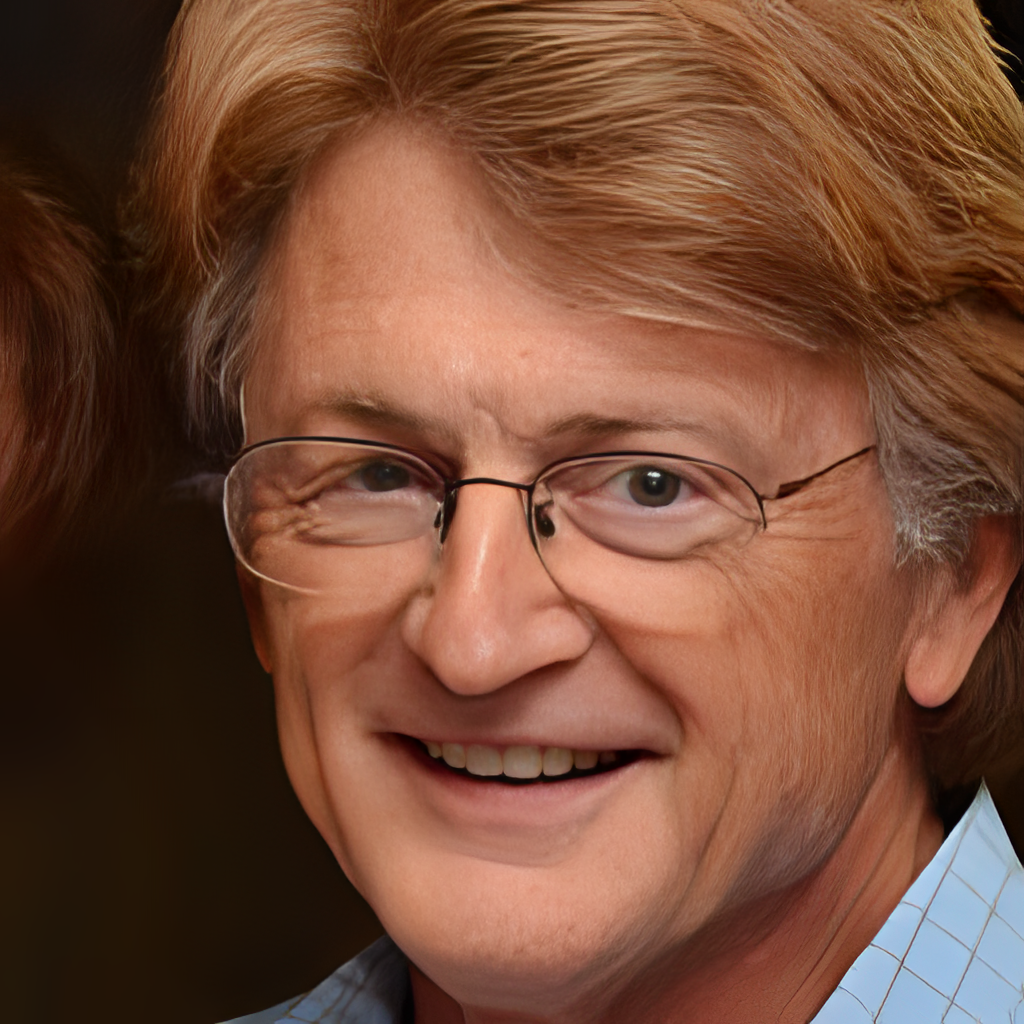
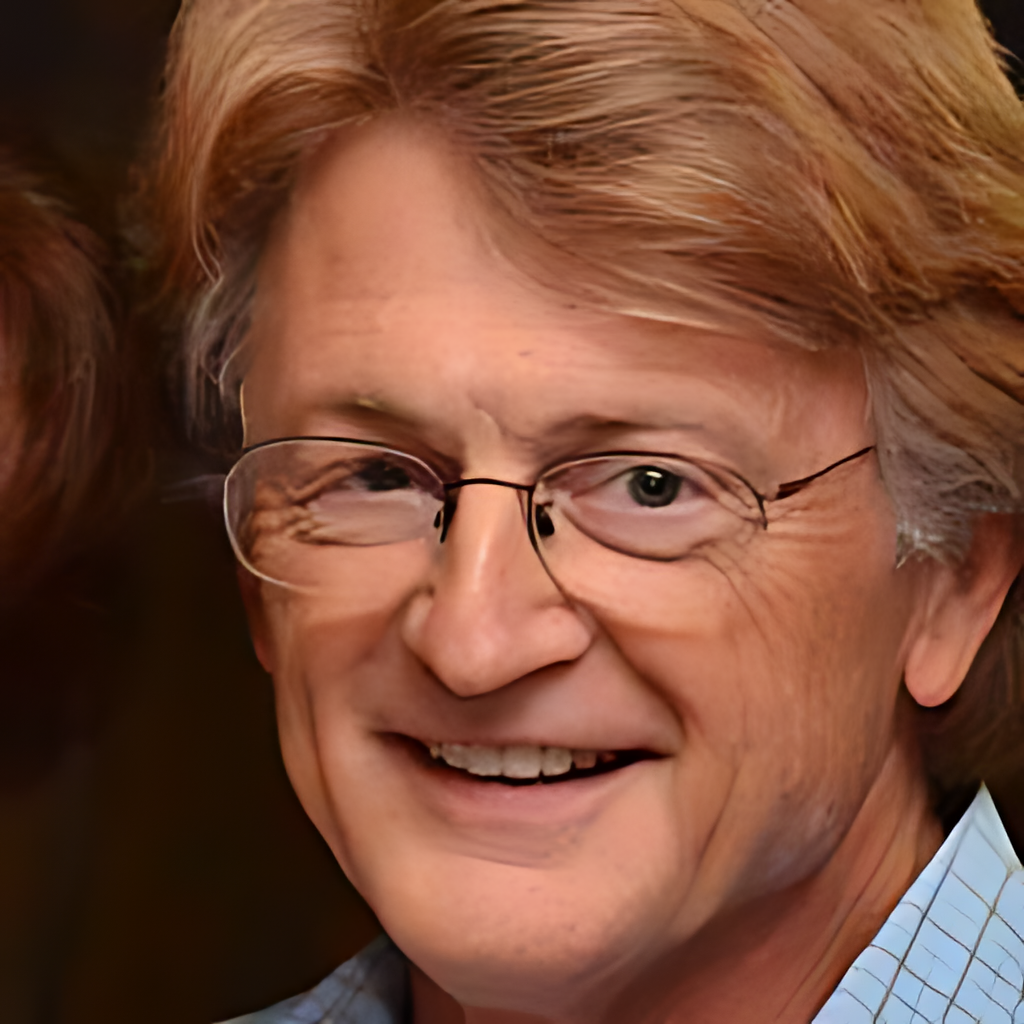
Add alpha channel support

diff --git a/RealESRGAN/model.py b/RealESRGAN/model.py
@@ -88,35 +88,78 @@ class RealESRGAN:
         self.model.eval()
         self.model.to(self.device)
         
-    def predict(self, lr_image, batch_size=4, patches_size=192,
-                padding=24, pad_size=15):
-        torch.autocast(device_type=self.device.type)
-        scale = self.scale
-        device = self.device
-        lr_image = np.array(lr_image)
-        lr_image = pad_reflect(lr_image, pad_size)
-
+    def _upscale_ai(self, image_np, batch_size, patches_size, padding, pad_size):
+        """
+        Upscales a 3-channel image using the AI model.
+        Assumes image_np is a numpy array with shape (H, W, 3).
+        """
+        # Apply reflection padding
+        image_np = pad_reflect(image_np, pad_size)
         patches, p_shape = split_image_into_overlapping_patches(
-            lr_image, patch_size=patches_size, padding_size=padding
+            image_np, patch_size=patches_size, padding_size=padding
         )
-        img = torch.FloatTensor(patches/255).permute((0,3,1,2)).to(device).detach()
+        img = torch.FloatTensor(patches / 255).permute((0, 3, 1, 2)).to(self.device).detach()
 
+        # Process the patches in batches through the model
         with torch.no_grad():
             res = self.model(img[0:batch_size])
             for i in range(batch_size, img.shape[0], batch_size):
                 res = torch.cat((res, self.model(img[i:i+batch_size])), 0)
 
-        sr_image = res.permute((0,2,3,1)).cpu().clamp_(0, 1)
+        # Reassemble the patches into a full image
+        sr_image = res.permute((0, 2, 3, 1)).cpu().clamp_(0, 1)
         np_sr_image = sr_image.numpy()
-
-        padded_size_scaled = tuple(np.multiply(p_shape[0:2], scale)) + (3,)
-        scaled_image_shape = tuple(np.multiply(lr_image.shape[0:2], scale)) + (3,)
+        padded_size_scaled = tuple(np.multiply(p_shape[0:2], self.scale)) + (3,)
+        scaled_image_shape = tuple(np.multiply(image_np.shape[0:2], self.scale)) + (3,)
         np_sr_image = stich_together(
-            np_sr_image, padded_image_shape=padded_size_scaled, 
-            target_shape=scaled_image_shape, padding_size=padding * scale
+            np_sr_image,
+            padded_image_shape=padded_size_scaled,
+            target_shape=scaled_image_shape,
+            padding_size=padding * self.scale
         )
-        sr_img = (np_sr_image*255).astype(np.uint8)
-        sr_img = unpad_image(sr_img, pad_size*scale)
-        sr_img = Image.fromarray(sr_img)
+        final_img = (np_sr_image * 255).astype(np.uint8)
+        final_img = unpad_image(final_img, pad_size * self.scale)
+        return final_img
 
-        return sr_img
+    def predict(self, lr_image, batch_size=4, patches_size=192,
+                padding=24, pad_size=15, alpha_scale="Esrgan"):
+        """
+        Upscales an image. If an alpha channel is present, the RGB is processed through the AI upscaler,
+        and the alpha channel is either upscaled via bicubic interpolation or passed through the same
+        AI pipeline (if alpha_scale is 'Esrgan'). The upscaled alpha is then recombined.
+        """
+        torch.autocast(device_type=self.device.type)
+        scale = self.scale
+        lr_image_np = np.array(lr_image)
+
+        # Check if there is an alpha channel and split it out
+        if lr_image_np.ndim == 3 and lr_image_np.shape[2] == 4:
+            has_alpha = True
+            alpha_channel = lr_image_np[..., 3]
+            lr_rgb = lr_image_np[..., :3]
+        else:
+            has_alpha = False
+            lr_rgb = lr_image_np
+
+        # Upscale the RGB image using the helper function
+        sr_rgb = self._upscale_ai(lr_rgb, batch_size, patches_size, padding, pad_size)
+        sr_rgb_img = Image.fromarray(sr_rgb)
+
+        if has_alpha:
+            if alpha_scale == "Bicubic":
+                # Upscale alpha using bicubic interpolation
+                alpha_img = Image.fromarray(alpha_channel).convert("L")
+                new_size = (lr_rgb.shape[1] * scale, lr_rgb.shape[0] * scale)
+                alpha_upscaled = alpha_img.resize(new_size, resample=Image.BICUBIC)
+            elif alpha_scale == "Esrgan":
+                # Replicate the single-channel alpha to three channels and upscale via the AI pipeline
+                alpha_3ch = np.repeat(alpha_channel[..., np.newaxis], 3, axis=2)
+                sr_alpha = self._upscale_ai(alpha_3ch, batch_size, patches_size, padding, pad_size)
+                # Convert the upscaled alpha back to a single-channel grayscale image
+                alpha_upscaled = Image.fromarray(sr_alpha).convert("L")
+            else:
+                raise ValueError("alpha_scale must be either 'Bicubic' or 'Esrgan'")
+            # Combine the upscaled alpha with the upscaled RGB image
+            sr_rgb_img.putalpha(alpha_upscaled)
+
+        return sr_rgb_img

diff --git a/main.py b/main.py
@@ -9,15 +9,15 @@ output_dir = "results"
 
 def main() -> int:
     device = torch.device('cuda' if torch.cuda.is_available() else 'cpu')
-    model = RealESRGAN(device, 'RealESRGAN_x4')
+    model = RealESRGAN(device, 'realesr-general-x4v3')
     model.load_weights(download=True)
     
-    #image = Image.open(f"inputs/lr_image.png").convert('RGB')
+    #image = Image.open(f"inputs/lr_image.png")
     #sr_image = model.predict(image)
     #sr_image.save(f'results/sr_image.png')
 
     for filename in os.listdir(input_dir):
-        image = Image.open(os.path.join(input_dir, filename)).convert('RGB')
+        image = Image.open(os.path.join(input_dir, filename))
         sr_image = model.predict(image)
         sr_image.save(os.path.join(output_dir, filename))
 

diff --git a/README.md b/README.md
@@ -31,15 +31,15 @@ from RealESRGAN import RealESRGAN
 
 device = torch.device('cuda' if torch.cuda.is_available() else 'cpu')
 
-model = RealESRGAN(device, scale=4)
-model.load_weights('weights/RealESRGAN_x4.pth', download=True)
+model = RealESRGAN(device, 'realesr-general-x4v3')
+model.load_weights(download=True)
 
-path_to_image = 'inputs/lr_image.png'
-image = Image.open(path_to_image).convert('RGB')
+path_to_image = 'inputs/image.png'
+image = Image.open(path_to_image)
 
 sr_image = model.predict(image)
 
-sr_image.save('results/sr_image.png')
+sr_image.save('results/image.png')
 ```
 
 ### Examples
@@ -73,3 +73,32 @@ Low quality image:
 Real-ESRGAN result:
 
 ![](results/lion.png)
+---
+
+Low quality image:
+
+![](inputs/0014.jpg)
+
+Real-ESRGAN result:
+
+![](results/0014.jpg)
+
+---
+
+Low quality image:
+
+![](inputs/children-alpha.png)
+
+Real-ESRGAN result:
+
+![](results/children-alpha.png)
+
+---
+
+Low quality image:
+
+![](inputs/logo.jpg)
+
+Real-ESRGAN result:
+
+![](results/logo.jpg)
